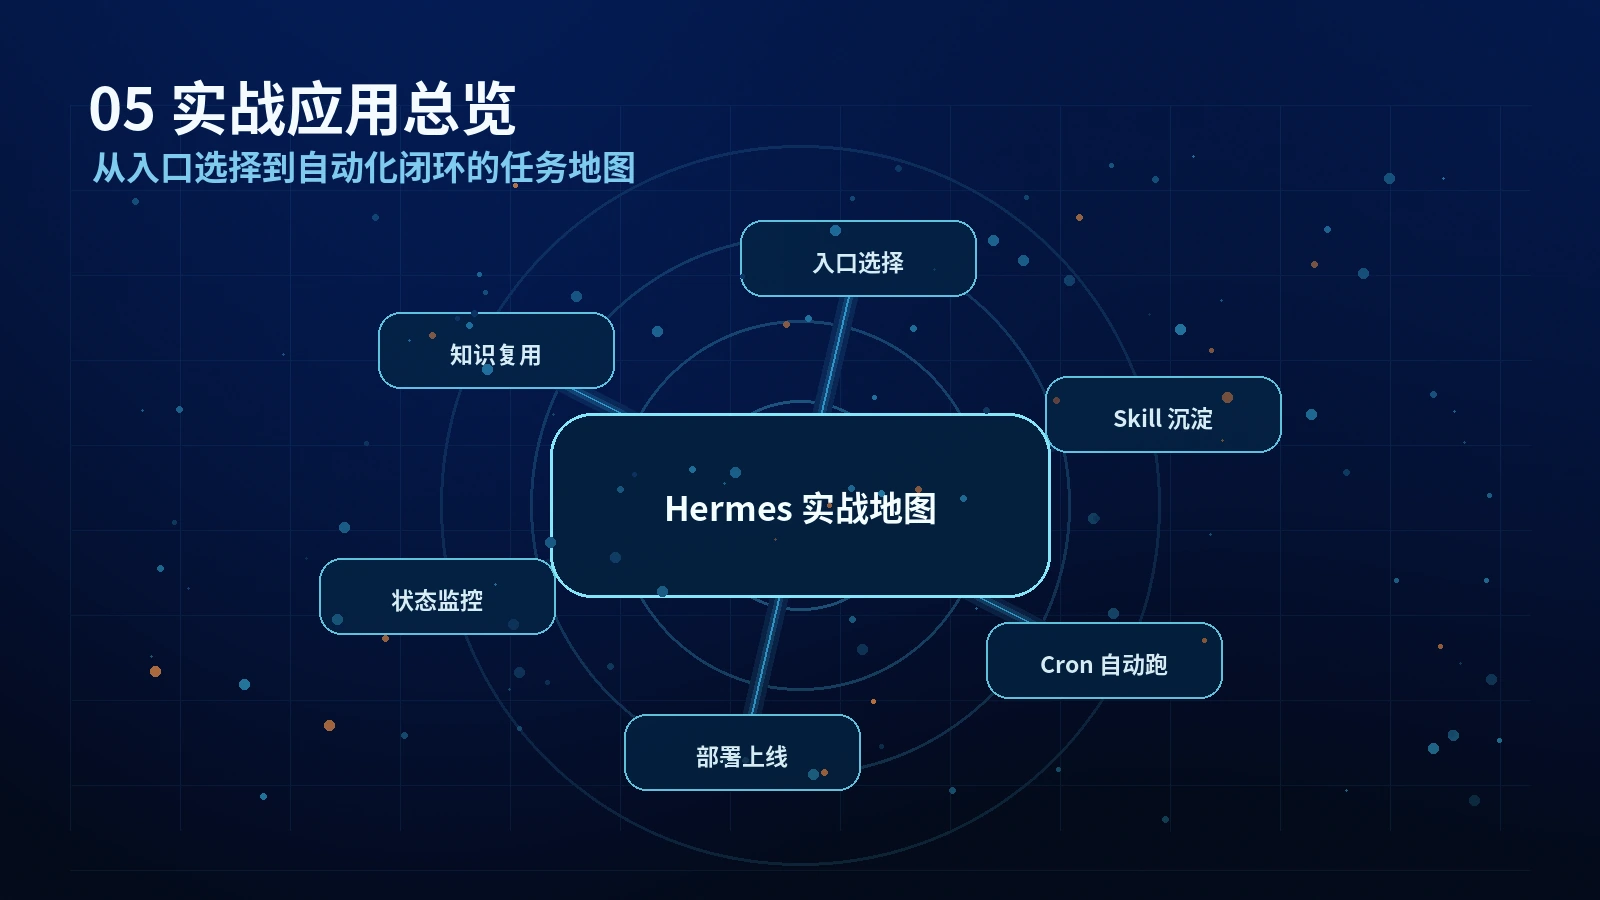
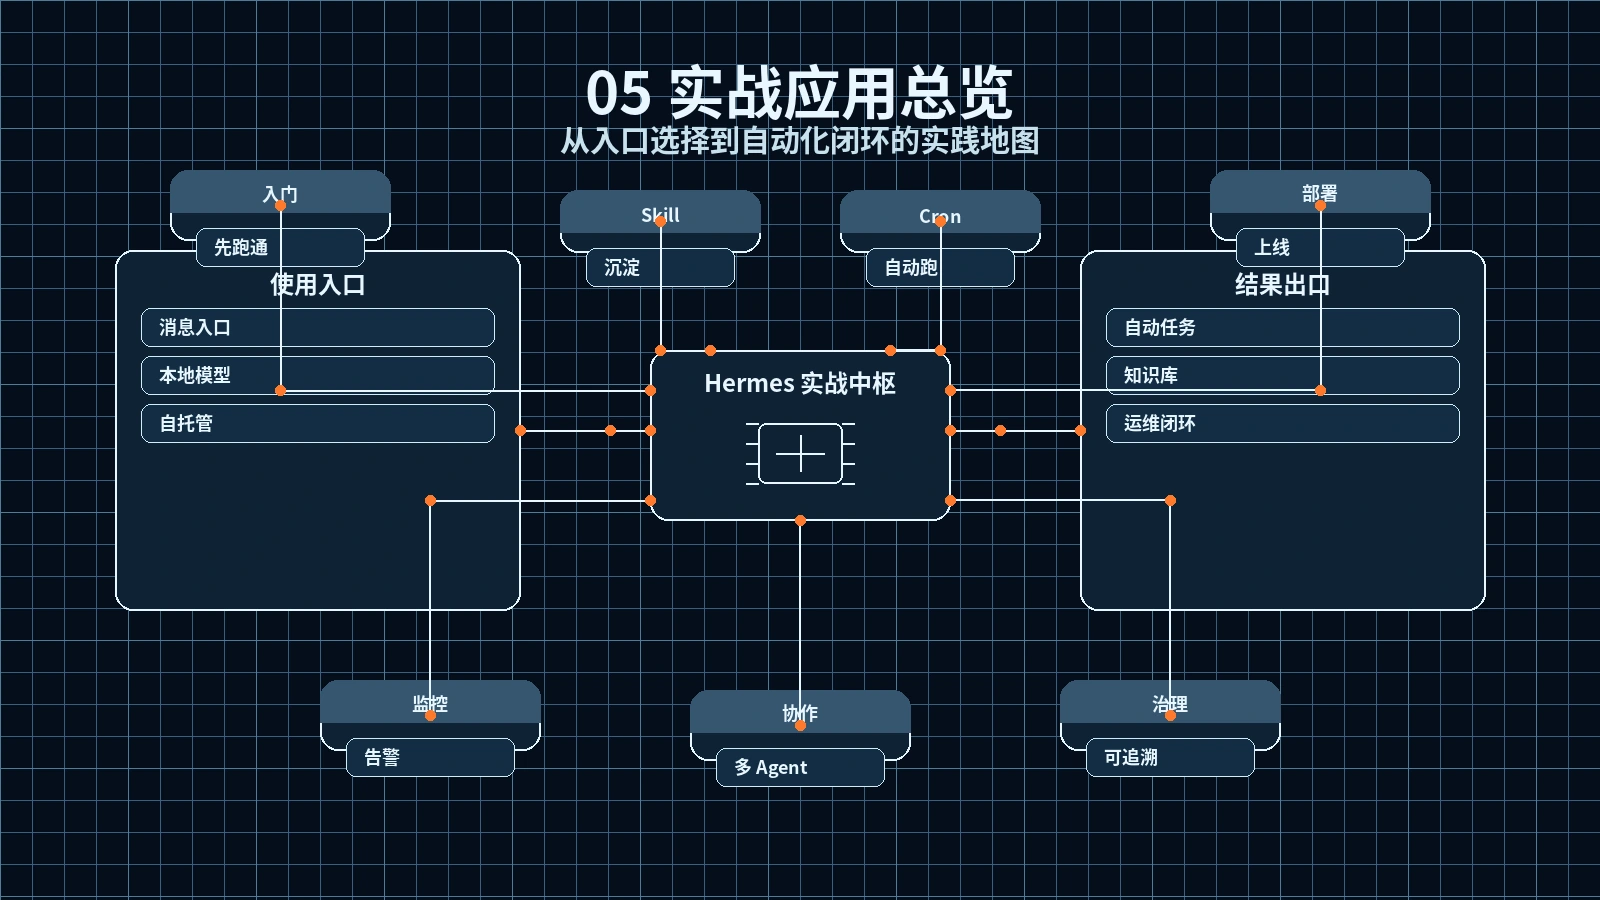
Align practical images with architecture diagram standard

diff --git a/artifacts/20260704-article-format-and-image-standard.md b/artifacts/20260704-article-format-and-image-standard.md
@@ -228,29 +228,30 @@ description: "..."
 
 ## 10. 结构图 / 流程图视觉风格
 
-基于现有站内图（如 `practical-v2-*`、`solution-*`、`rm2-*`）抽样分析，后续结构图和流程图统一采用以下风格：
+基准图：`docs/assets/practical-v2-02-ollama-local-model.webp`。后续实战结构图必须复刻它的“深色电路板架构图”语言，而不是泛科技发光节点图。
 
 - **画幅**：优先 16:9 横图，推荐 1600×900 或 1376×768；复杂大图可用 2752×1536。
-- **背景**：深蓝黑或近黑背景，带细微科技网格、电路纹理或数字蓝图质感；背景不能抢正文信息。
-- **主色**：冷色科技蓝 / 青色作为主强调色，用于节点边框、连线、箭头、图标。
-- **辅助色**：少量橙色/琥珀色用于关键触发、告警或最终交付；少量绿色用于成功、通过、健康状态。
-- **节点**：圆角矩形卡片，深色填充，青色发光边框，轻微玻璃拟态或科技 UI 质感。
-- **连线**：发光青色线条，圆角转折，清晰箭头；复杂流程允许分叉和汇聚，但不能缠绕。
-- **布局**：优先模块化、留白充分；流程图强调“从左到右 / 从上到下”的方向；对比图用左右两栏；中心协作图用 hub-and-spoke。
-- **字体**：现代无衬线中文字体风格，白色/浅灰文字，标题略粗；图片内文字必须短，避免整段说明。
-- **图标**：使用简单线性图标或抽象 UI 图标，颜色与主色一致；不要使用复杂插画人物抢焦点。
-- **可读性**：中文标签要大、短、清楚；一张图只表达一个核心关系。
+- **构图**：使用“中央核心模块 + 周边功能模块/对照卡”的架构图布局；信息关系要像系统设计图，不要做星图、脑图、雷达图、粒子网络或随机 hub-and-spoke。
+- **背景**：深蓝黑或近黑背景，叠加克制的细网格/电路板纹理；背景只提供蓝图感，不要星空、强粒子、强光晕或海报渐变。
+- **主色**：前景以白色/浅蓝白为主，模块边框、文字、连线保持高对比；浅蓝灰只用于标题条或少量模块填充。
+- **辅助色**：只用少量橙色/琥珀色实心圆点作为连接器或关键触发点；绿色只用于“健康/成功”状态，不做大面积装饰。
+- **节点**：统一圆角矩形。大模块是白色细边框容器；内部子模块是深蓝灰填充 + 白色边框；“对照卡”可用浅蓝灰标题条；核心模块边框略粗，内部要有芯片/电路/路由中枢线框图标。
+- **连线**：使用白色或浅蓝白 1-2px 直角折线，模拟 PCB 电路走线；连接点和转折重点放 6-8px 橙色圆点；避免霓虹粗线、曲线蛛网和杂乱箭头。
+- **布局**：模块分布要平衡，左右/上下留白充足；流程图可以从左到右，但仍要保持电路走线和容器层级；对比图用左右大容器 + 中央路由/判断模块。
+- **字体**：现代无衬线中文字体，白色文字；图片内文字短、粗、清楚。主标题最大，核心模块次之，子模块标签更小；禁止整段说明。
+- **图标**：统一白色线框图标，主题明确；核心模块图标更复杂，其它模块图标简洁。不要人物、吉祥物、3D 图标、彩色贴纸或装饰性图标堆砌。
+- **可读性**：一张图只表达一个核心系统关系；读者 5 秒内能看懂主线。
 
 生图提示词必须明确包含：
 
 ```text
-16:9 futuristic tech diagram, dark blue-black background, subtle glowing grid or circuit pattern, rounded rectangular UI cards, glowing cyan borders, clean sans-serif Chinese typography, white and light gray text, cyan flow lines with rounded corners and arrowheads, small orange highlight for key trigger or alert, small green dots for success status, professional high-tech documentation style, minimalist, readable, no SVG, no hand-drawn style
+16:9 dark circuit-board architecture diagram, deep blue-black background with subtle fine grid, central Hermes routing hub module, surrounding rounded rectangular system modules and comparison cards, white thin borders, dark blue-gray card fills, clean white Chinese typography, PCB-style right-angle connector lines in white or pale cyan, small orange circular connection nodes at endpoints and turns, white outline icons, balanced technical documentation layout, minimal glow, readable, professional, similar style to practical-v2-02-ollama-local-model.webp
 ```
 
 负面约束：
 
 ```text
-no cartoon characters, no messy arrows, no tiny unreadable text, no colorful gradient poster, no random icons, no 3D mascot, no photorealistic people, no decorative-only image, no SVG line art export look
+no cartoon characters, no hand-drawn style, no SVG export look, no neon spider web, no random particle network, no star map, no colorful gradient poster, no 3D mascot, no photorealistic people, no tiny unreadable text, no messy arrows, no decorative-only image, no large glowing cyan borders
 ```
 
 ## 11. 图片类型标准
